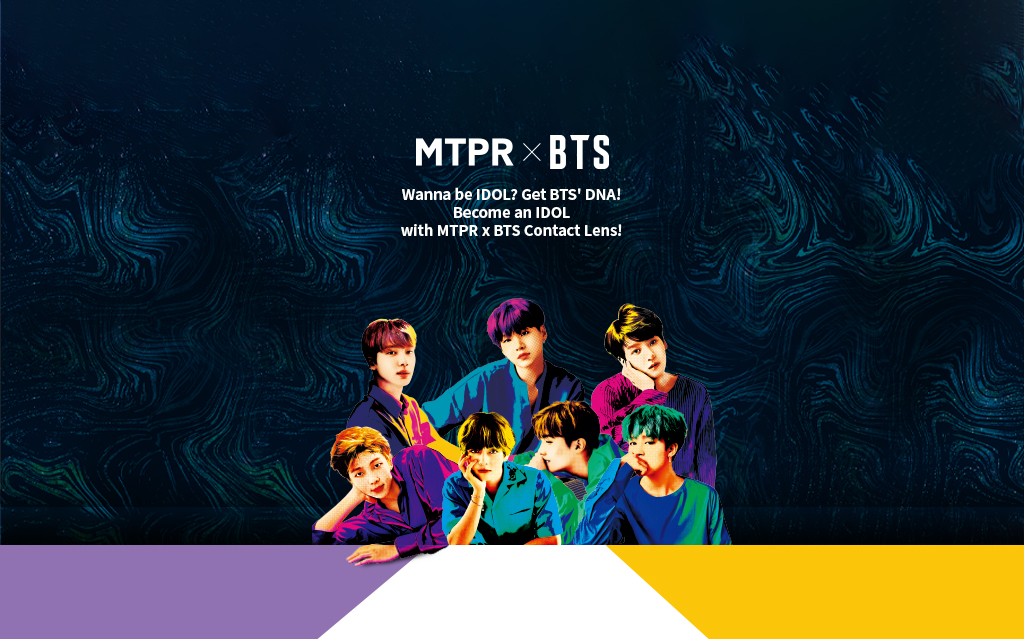
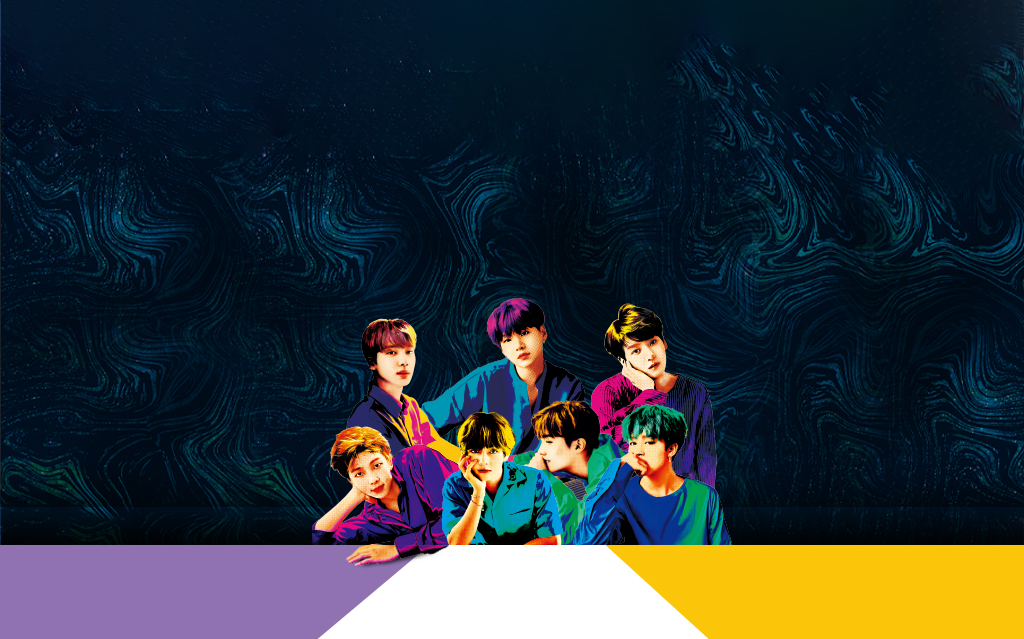
no message

Changed region(s): [[0.375, 0.2973, 0.625, 0.3865], [0.4062, 0.2081, 0.5, 0.2676], [0.5312, 0.2081, 0.5938, 0.2676]]

diff --git a/bts/public/src/scss/common.scss b/bts/public/src/scss/common.scss
@@ -142,13 +142,12 @@ $breakpoint: 1024px;
 	  p {
 	    font-size: 16px;
 	    line-height: 1.75;
-	    text-align: justify;
 	    color: #585858;
 	  }
 	}
 
 	.join-box {
-		position:absolute;top:76px;right:-290px;
+		position:absolute;top:907px;right:-290px;
 		width:240px;background:#9072b1;text-align:center;
 		box-shadow: 0px 7px 16.2px 1.8px rgba(2, 7, 57, 0.5);
 		-webkit-box-shadow: 0px 7px 16.2px 1.8px rgba(2, 7, 57, 0.5);
@@ -160,9 +159,17 @@ $breakpoint: 1024px;
 		}
 	}
 	.p-container {position:relative;width:1000px;margin:0 auto;padding-bottom:100px;}
+	.kv {
+		position:absolute;left:50%;top:111px;width:100%;
+		transform:translateX(-50%);-webkit-transform:translateX(-50%);-ms-transform:translateX(-50%);text-align:center;
+		span {display:block;
+			img {height:65px;}
+		}
+		p {margin-top:20px;font-size:23px;font-weight:bold;line-height:1.22;color:#fff;}
+	}
 	.count {
 	    display: block;
-	    margin-top: 792px;
+	    padding-top: 792px;
 	    font-size: 0;text-align:center;
 	    strong {
 	      position: relative;
@@ -377,7 +384,14 @@ $breakpoint: 1024px;
 	}
 	
 	.p-container {padding:64px 20px 91px;width:375px;margin:0 auto;box-sizing:border-box;-webkit-box-sizing:border-box;-ms-box-sizing:border-box;}
-
+	.kv {
+		position:absolute;left:50%;top:132px;width:100%;
+		transform:translateX(-50%);-webkit-transform:translateX(-50%);-ms-transform:translateX(-50%);text-align:center;
+		span {display:block;
+			img {height:41px;}
+		}
+		p {margin-top:10px;font-size:16px;font-weight:bold;line-height:1.25;color:#fff;}
+	}
 	.count {
 	    display: block;margin-top:526px;
 	    font-size: 0;text-align:center;

diff --git a/bts/public/src/css/common.css b/bts/public/src/css/common.css
@@ -192,11 +192,10 @@ body {
   section p {
     font-size: 16px;
     line-height: 1.75;
-    text-align: justify;
     color: #585858; }
   .join-box {
     position: absolute;
-    top: 76px;
+    top: 907px;
     right: -290px;
     width: 240px;
     background: #9072b1;
@@ -219,9 +218,28 @@ body {
     width: 1000px;
     margin: 0 auto;
     padding-bottom: 100px; }
+  .kv {
+    position: absolute;
+    left: 50%;
+    top: 111px;
+    width: 100%;
+    transform: translateX(-50%);
+    -webkit-transform: translateX(-50%);
+    -ms-transform: translateX(-50%);
+    text-align: center; }
+    .kv span {
+      display: block; }
+      .kv span img {
+        height: 65px; }
+    .kv p {
+      margin-top: 20px;
+      font-size: 23px;
+      font-weight: bold;
+      line-height: 1.22;
+      color: #fff; }
   .count {
     display: block;
-    margin-top: 792px;
+    padding-top: 792px;
     font-size: 0;
     text-align: center; }
     .count strong {
@@ -516,6 +534,25 @@ body {
     box-sizing: border-box;
     -webkit-box-sizing: border-box;
     -ms-box-sizing: border-box; }
+  .kv {
+    position: absolute;
+    left: 50%;
+    top: 132px;
+    width: 100%;
+    transform: translateX(-50%);
+    -webkit-transform: translateX(-50%);
+    -ms-transform: translateX(-50%);
+    text-align: center; }
+    .kv span {
+      display: block; }
+      .kv span img {
+        height: 41px; }
+    .kv p {
+      margin-top: 10px;
+      font-size: 16px;
+      font-weight: bold;
+      line-height: 1.25;
+      color: #fff; }
   .count {
     display: block;
     margin-top: 526px;

diff --git a/bts/public/src/index_ja.html b/bts/public/src/index_ja.html
@@ -59,6 +59,10 @@
 					<strong>JOIN THIS PROJECT</strong>
 				</a>
 			</article>
+			<section class="kv">
+				<span><img src="./images/logo_bts-w.svg" alt="" /></span>
+				<p>アイドルになりたいなら、BTSのDNA！<br>MTPR x BTSコンタクトレンズをつけたら、私もアイドル！</p>
+			</section>
 			<section class="count">
 				<span>
 					<strong>01<em>DAY</em></strong>

diff --git a/bts/public/src/index_zh.html b/bts/public/src/index_zh.html
@@ -59,6 +59,10 @@
 					<strong>JOIN THIS PROJECT</strong>
 				</a>
 			</article>
+			<section class="kv">
+				<span><img src="./images/logo_bts-w.svg" alt="" /></span>
+				<p>想成为爱豆吗？ 去拿BTS的DNA吧！<br>戴上MTPR x BTS隐形眼镜，我也是爱豆！</p>
+			</section>
 			<section class="count">
 				<span>
 					<strong>01<em>DAY</em></strong>

diff --git a/bts/public/src/index.html b/bts/public/src/index.html
@@ -59,6 +59,10 @@
 					<strong>JOIN THIS PROJECT</strong>
 				</a>
 			</article>
+			<section class="kv">
+				<span><img src="./images/logo_bts-w.svg" alt="" /></span>
+				<p>Wanna be IDOL? Get BTS' DNA!<br>Become an IDOL<br class="mobile"> with MTPR x BTS Contact Lens!</p>
+			</section>
 			<section class="count">
 				<span>
 					<strong>01<em>DAY</em></strong>
